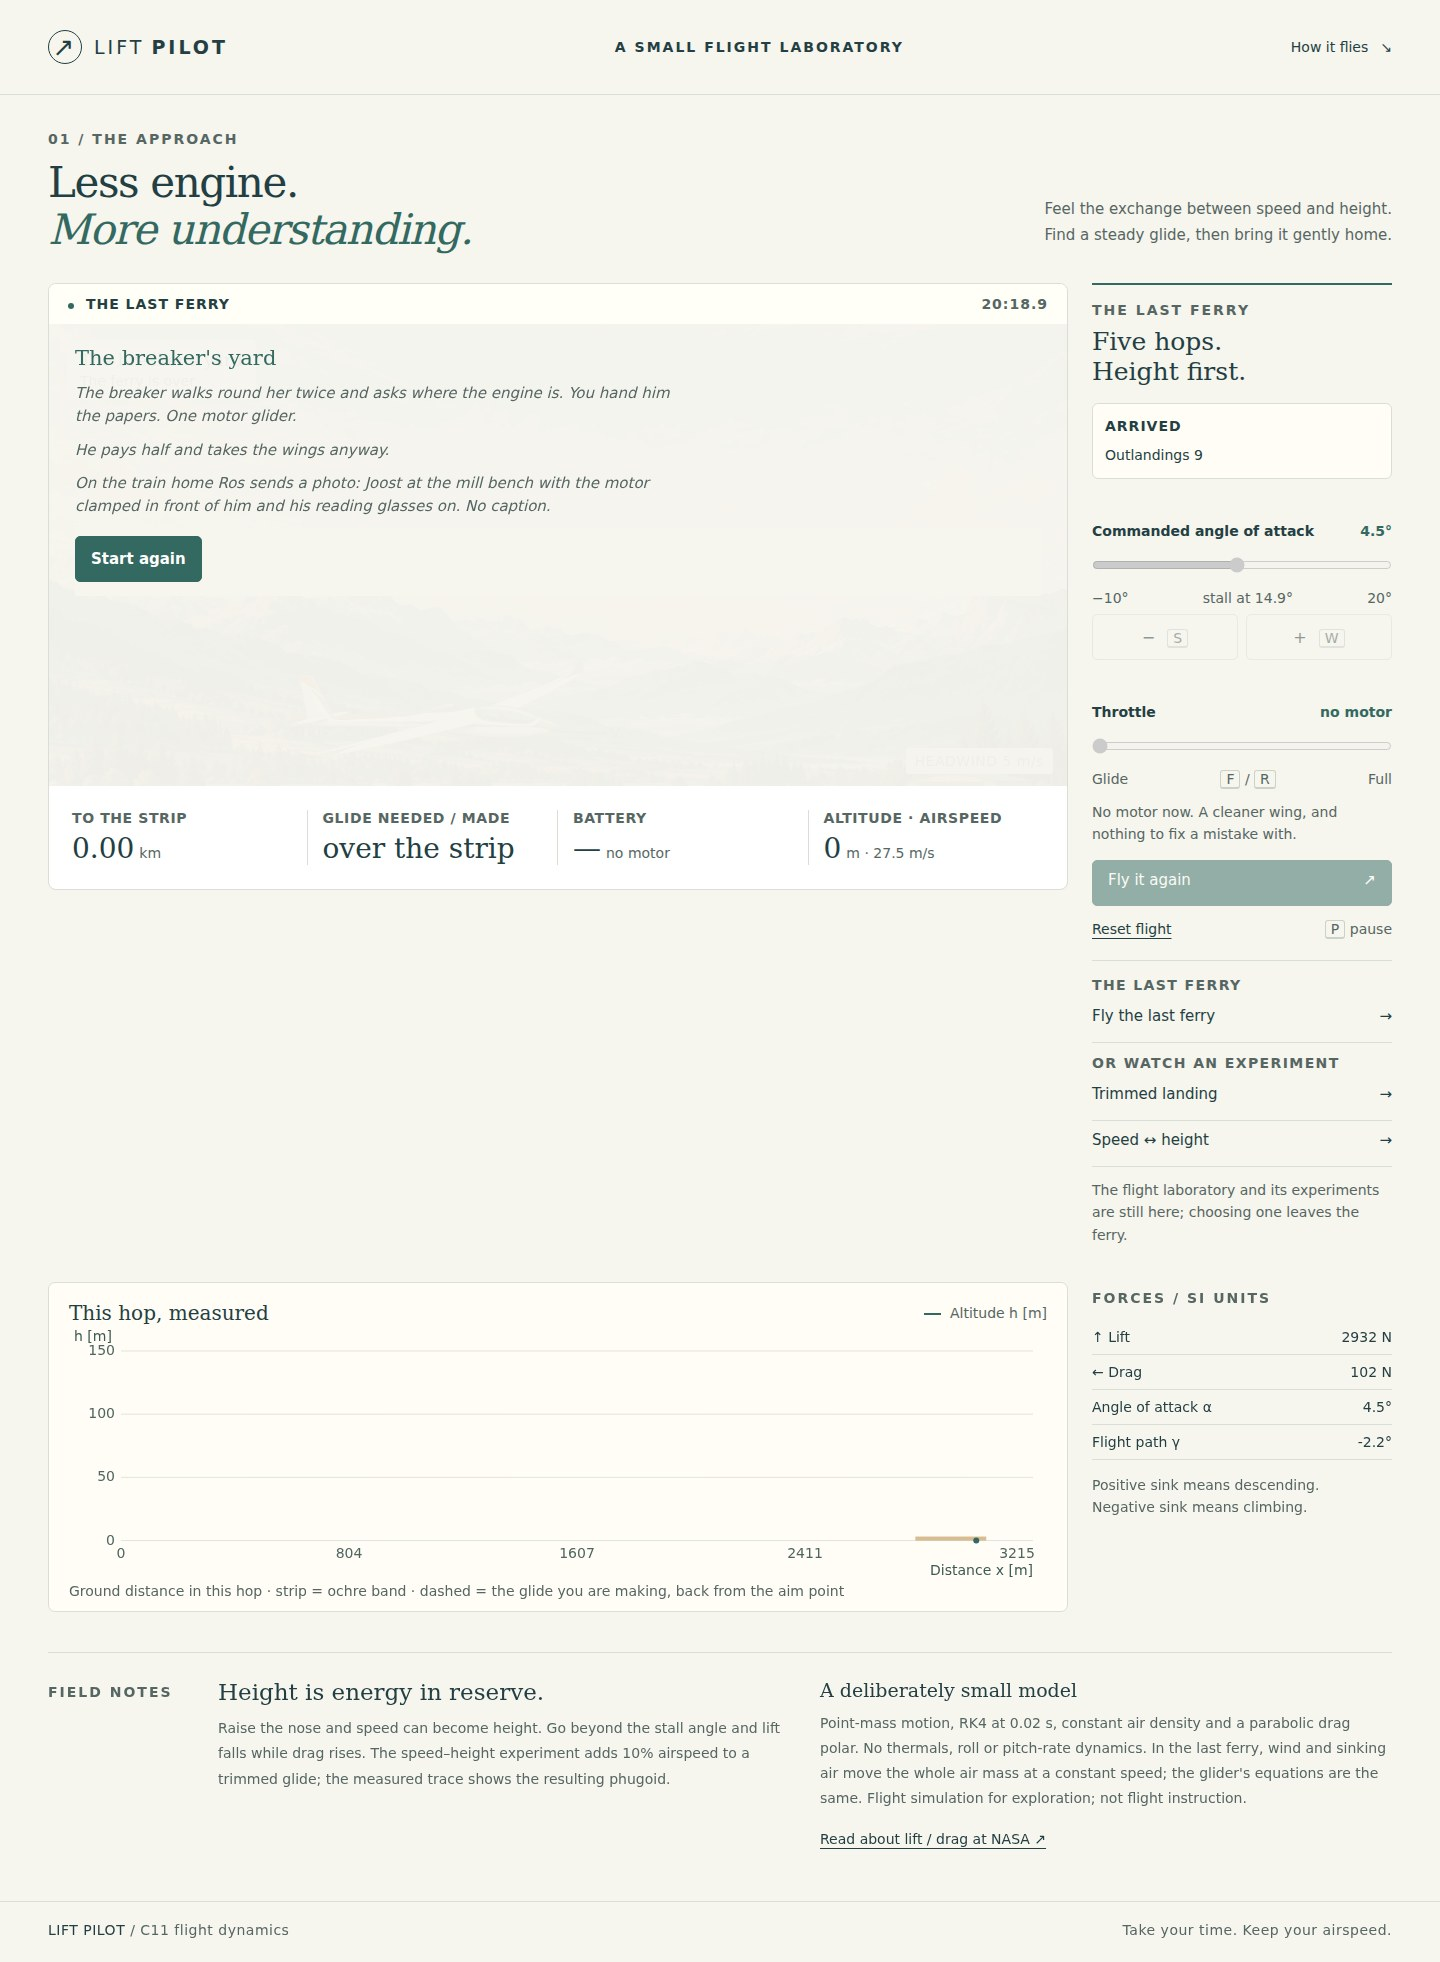
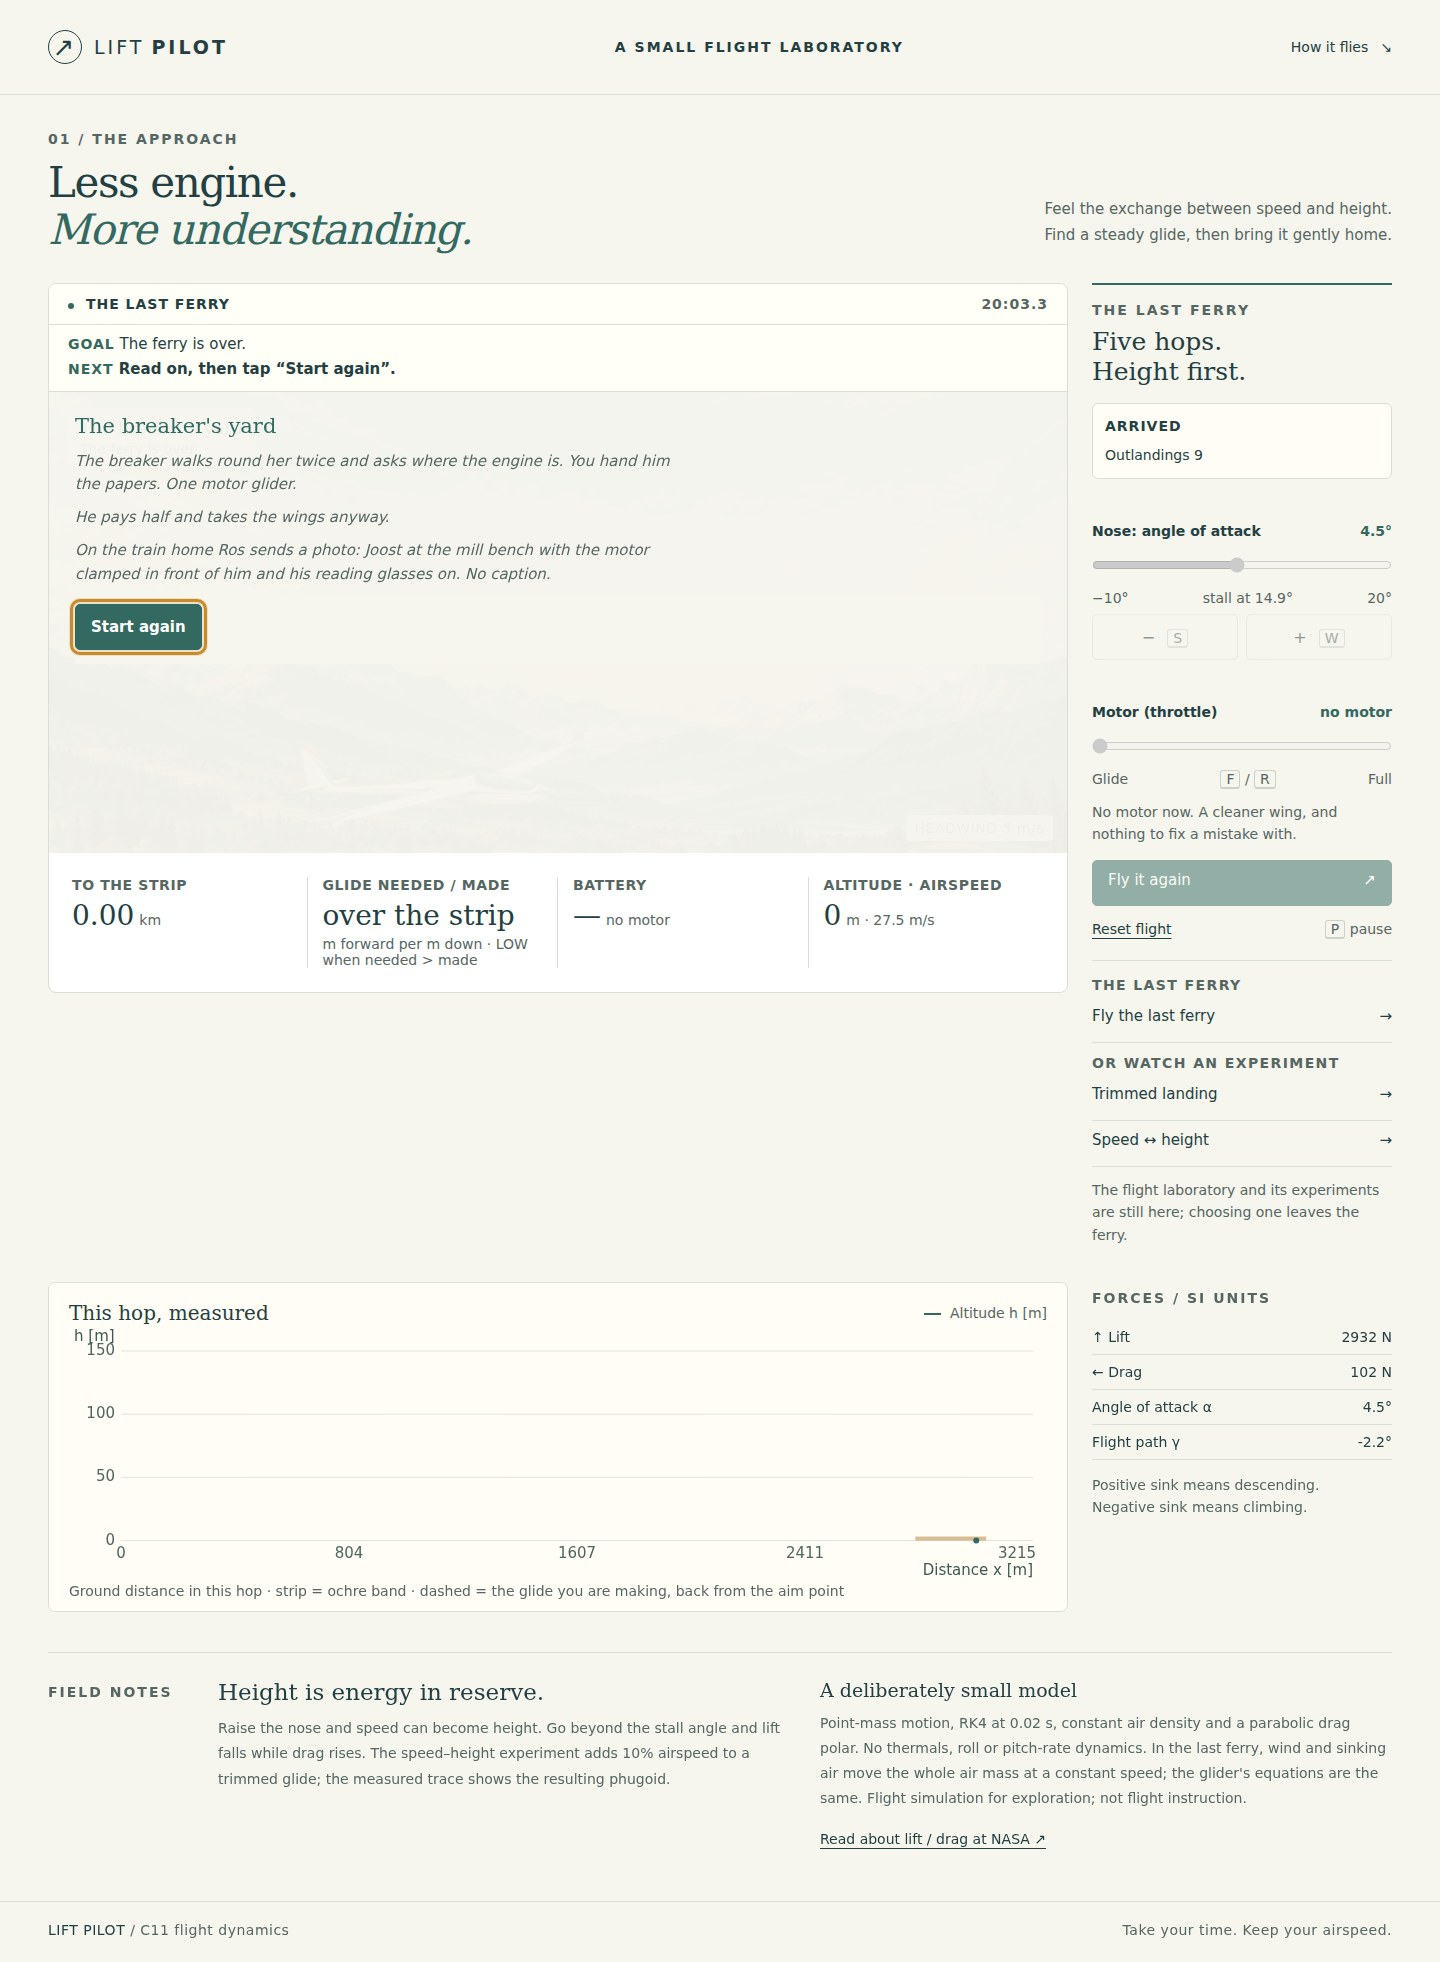
Show the goal and the next step above the flight view (#10)
GOAL and NEXT lines from the C state (stall, flare, LOW with or without
battery, motor still running, nose far from 4 deg, paused, scenes, landings),
pinned at the top when the page scrolls; the named control is outlined.
Quick row (- Nose, + Nose, Motor 0%, Motor 100%) under the view on upright
phones. __tmGate.objective()/hint() return the same words; the tap point
moves to nextTarget(). Instrument words added; LOW/STALL alerts stacked.
Physics, CSV/SVG/GIF and story JSON unchanged.

diff --git a/web/style.css b/web/style.css
@@ -18,18 +18,31 @@ input{accent-color:var(--accent)}
 h1{font:42px/1.12 var(--serif);letter-spacing:-1.4px;margin:0}h1 em{font-weight:400;color:var(--accent)}
 .intro>p{font-size:15px;line-height:1.7;color:var(--muted);margin:0 0 5px}
 .flight-layout{display:grid;grid-template-columns:minmax(0,1fr) 300px;gap:24px;align-items:start}
-.flight-panel{min-width:0;border:1px solid var(--line);border-radius:8px;overflow:hidden;background:#fff}
+.flight-panel{min-width:0;border:1px solid var(--line);border-radius:8px;overflow:clip;background:#fff}
 .view-heading{display:flex;justify-content:space-between;align-items:center;padding:12px 19px;font-size:14px;font-weight:600;letter-spacing:1px;background:#fffef7}
 .live-dot{display:inline-block;width:6px;height:6px;border-radius:50%;background:var(--accent);margin-right:6px}
 #clock{font-variant-numeric:tabular-nums;color:var(--muted)}
+/* The goal of the flight and the next thing to do, always on screen above the view (bug #10). */
+/* Sticky: once the page is scrolled down to the instruments, the two lines stay pinned at the top of the screen. */
+.guide{position:sticky;top:0;z-index:4;padding:9px 19px 10px;background:#fffef7;border-top:1px solid var(--line);border-bottom:1px solid var(--line);font-size:15px;line-height:1.45}
+.guide p{margin:0}.guide p+p{margin-top:3px}
+.guide-key{display:inline-block;min-width:46px;font-size:14px;font-weight:700;letter-spacing:1px;color:var(--accent)}
+#next-step{font-weight:600}
+.guide[data-tone=warn] #next-step{color:#8a4b12}.guide[data-tone=warn] .guide-key{color:#8a4b12}
+/* The control the next step names. */
+.next-target{outline:3px solid #c98a2e;outline-offset:2px;box-shadow:0 0 0 6px #c98a2e33}
+.quick{display:none}
+.telemetry small.note{display:block;margin:4px 0 0}
 .scene{position:relative;background:#c4d9dd}
 .scene canvas{display:block;width:100%;aspect-ratio:1080/470}
 .scene-label{position:absolute;left:18px;top:16px;max-width:70%;background:#fcfcf0e8;border:1px solid #fff8;border-radius:5px;padding:9px 12px;box-shadow:0 2px 10px #294c4120}
 .scene-label span{display:block;font:17px var(--serif)}
 .scene-label small{display:block;font-size:14px;color:#4c5e5a;margin-top:3px}
 .view-corner{position:absolute;right:14px;bottom:12px;font-size:14px;letter-spacing:.5px;background:#faf9efe8;padding:5px 9px;border-radius:3px}
-#stall,#low{position:absolute;bottom:12px;left:14px;padding:9px 13px;background:#783725;color:white;font-size:14px;border-radius:4px;max-width:70%}
-#low{background:#8a4b12;bottom:58px}
+/* LOW above STALL, stacked so the two never cover each other. */
+.alerts{position:absolute;bottom:12px;left:14px;max-width:70%;display:flex;flex-direction:column;align-items:flex-start;gap:6px}
+#stall,#low{padding:9px 13px;background:#783725;color:white;font-size:14px;border-radius:4px}
+#low{background:#8a4b12}
 #banner{position:absolute;left:50%;top:76px;transform:translateX(-50%);font-size:14px;letter-spacing:1.4px;font-weight:600;padding:8px 14px;border-radius:4px;background:#336960;color:#fff;white-space:nowrap}
 #banner[data-kind=out]{background:#7b4a26}
 .telemetry{display:grid;grid-template-columns:repeat(4,1fr);padding:20px 8px}
@@ -124,10 +137,13 @@ body[data-mode=ferry] .ferry-brief{display:block}
   .flight-layout,.analysis-grid{grid-template-columns:1fr;gap:16px}
   .view-heading{padding:8px 12px}
   .scene canvas{aspect-ratio:auto;height:62svh;min-height:300px}
+  .guide{padding:8px 12px;font-size:14px;min-height:calc(4 * 1.45em + 17px)}
+  .quick{display:grid;grid-template-columns:repeat(4,1fr);gap:6px;padding:8px 8px 0}
+  .quick button{padding:6px 4px;font-size:14px;background:#fffef7}
   .scene-label{max-width:88%;left:8px;top:8px;padding:7px 10px}.scene-label span{font-size:16px}
   .view-corner{display:none}
-  #banner{top:auto;bottom:12px;white-space:normal;max-width:90%;text-align:center}
-  #low{bottom:56px}
+  #banner{top:72px;white-space:normal;max-width:90%;text-align:center}
+  .alerts{left:8px;bottom:8px;max-width:88%}
   .telemetry{grid-template-columns:repeat(2,1fr);gap:12px 0;padding:14px 4px}
   .telemetry>div:nth-child(2){border:0}.telemetry strong{font-size:24px}
   #welcome,#story{padding:16px}
@@ -140,9 +156,11 @@ body[data-mode=ferry] .ferry-brief{display:block}
 @media(max-height:520px) and (orientation:landscape){
   .topbar{display:none}.intro{display:none}
   .topbar,main,footer{padding-left:8px;padding-right:8px}
-  .flight-layout{grid-template-columns:minmax(0,1fr) 250px;gap:10px;align-items:start}
+  .flight-layout{grid-template-columns:minmax(0,1fr) 232px;gap:10px;align-items:start}
   .view-heading{display:none}
-  .scene canvas{aspect-ratio:auto;height:calc(100svh - 8px)}
+  main{padding-top:0}
+  .scene canvas{aspect-ratio:auto;height:calc(100svh - 8px - var(--guide-h,0px))}
+  .guide{padding:5px 10px;font-size:14px;line-height:1.35}.guide p+p{margin-top:1px}.quick{display:none}
   .flight-panel{position:sticky;top:4px}
   .scene-label{left:8px;top:8px;padding:6px 9px}.scene-label span{font-size:15px}
   .view-corner{display:none}

diff --git a/web/index.html b/web/index.html
@@ -20,11 +20,15 @@
   <div class="flight-layout">
     <section class="flight-panel" aria-label="Flight observation">
       <div class="view-heading"><span><i class="live-dot" aria-hidden="true"></i> <span id="mode-name">MANUAL APPROACH</span></span><span id="clock">00:00.0</span></div>
+      <div class="guide" id="guide">
+        <p><span class="guide-key">GOAL</span> <span id="goal-line">Loading the flight model…</span></p>
+        <p><span class="guide-key">NEXT</span> <span id="next-step" aria-live="polite">Wait a moment.</span></p>
+      </div>
       <div class="scene">
         <canvas id="scene" width="1080" height="470" role="img" aria-label="Illustrated flight view. Altitude and distance are on the measured plot below."></canvas>
         <div class="scene-label"><span id="status" role="status">Loading the flight model…</span><small id="scene-caption">Illustrated landscape · schematic ground line</small></div>
-        <div id="stall" hidden>STALL — reduce angle of attack</div>
-        <div id="low" hidden>LOW — you won't make the strip at this glide</div>
+        <div class="alerts"><div id="low" hidden>LOW — you won't make the strip at this glide</div>
+          <div id="stall" hidden>STALL — reduce angle of attack</div></div>
         <div id="banner" hidden></div>
         <div class="view-corner" id="view-corner">STILL AIR · LONGITUDINAL FLIGHT</div>
         <div id="welcome" hidden>
@@ -40,15 +44,19 @@
           <div id="story-options"></div>
         </div>
       </div>
+      <div class="quick" aria-label="Quick controls">
+        <button data-adjust="-1" aria-label="Nose down">− Nose</button><button data-adjust="1" aria-label="Nose up">+ Nose</button>
+        <button data-motor="0" aria-label="Motor off">Motor 0%</button><button data-motor="1" aria-label="Motor full">Motor 100%</button>
+      </div>
       <div class="telemetry" id="lab-telemetry" aria-label="Flight instruments">
         <div><span>AIRSPEED</span><strong id="airspeed">—</strong><small>m/s</small></div>
         <div><span>ALTITUDE</span><strong id="altitude">—</strong><small>m</small></div>
-        <div><span>SINK RATE ↓</span><strong id="sink">—</strong><small>m/s</small></div>
-        <div><span>LIFT / DRAG</span><strong id="ld">—</strong><small>ratio</small></div>
+        <div><span>SINK RATE ↓</span><strong id="sink">—</strong><small>m/s</small><small class="note">under 2 m/s to land</small></div>
+        <div><span>LIFT / DRAG</span><strong id="ld">—</strong><small>ratio</small><small class="note">m forward per m down</small></div>
       </div>
       <div class="telemetry ferry-only" id="ferry-telemetry" aria-label="Ferry instruments">
         <div><span>TO THE STRIP</span><strong id="f-strip">—</strong><small>km</small></div>
-        <div id="glide-cell"><span>GLIDE NEEDED / MADE</span><strong id="f-glide">—</strong></div>
+        <div id="glide-cell"><span>GLIDE NEEDED / MADE</span><strong id="f-glide">—</strong><small class="note">m forward per m down · LOW when needed &gt; made</small></div>
         <div><span>BATTERY</span><strong id="f-charge">—</strong><small id="f-charge-unit">s of motor</small></div>
         <div><span>ALTITUDE · AIRSPEED</span><strong id="f-height">—</strong><small id="f-speed">—</small></div>
       </div>
@@ -56,11 +64,11 @@
     <aside class="control-panel" aria-label="Flight controls">
       <p class="eyebrow" id="controls-eyebrow">YOUR CONTROLS</p><h2 id="controls-title">Small inputs.<br>Watch what follows.</h2>
       <div class="ferry-only ferry-brief"><p id="hop-name">HOP 1 / 5</p><p id="hop-air"></p><p id="hop-tally"></p></div>
-      <label for="pitch">Commanded angle of attack <output id="pitch-value" for="pitch">4.0°</output></label>
+      <label for="pitch">Nose: angle of attack <output id="pitch-value" for="pitch">4.0°</output></label>
       <input id="pitch" type="range" min="-10" max="20" step="0.5" value="4">
       <div class="range-ends"><span>−10°</span><span>stall at 14.9°</span><span>20°</span></div>
       <div class="adjust"><button data-adjust="-1" aria-label="Decrease angle of attack">− <kbd>S</kbd></button><button data-adjust="1" aria-label="Increase angle of attack">+ <kbd>W</kbd></button></div>
-      <label for="throttle" id="throttle-label">Throttle <output id="throttle-value" for="throttle">0%</output></label>
+      <label for="throttle" id="throttle-label">Motor (throttle) <output id="throttle-value" for="throttle">0%</output></label>
       <input id="throttle" type="range" min="0" max="100" step="5" value="0">
       <div class="range-ends"><span>Glide</span><span><kbd>F</kbd> / <kbd>R</kbd></span><span>Full</span></div>
       <p class="control-note" id="control-note">Pitch commands the angle of attack, not the flight path. Give the aircraft time to respond.</p>

diff --git a/docs/design.md b/docs/design.md
@@ -56,6 +56,17 @@ touched. With no story numbers the strips are 600 m long, in still air, at 2,500
 darken the flight view; no "strip made" banner is raised for the hop that leads to them, nor in the
 frame after they close (`[quiet]` in `tests/test_ferry.c`, `quiet` in every play-order seed).
 
+## The goal and the next step
+
+`guide()` in `web/app.mjs` turns the C state into two lines above the view: the goal (where to land,
+how far, the strip length; in the laboratory the runway and the 2 m/s limit) and the next step. The
+next step is the first that applies of: paused, stall (nose down), past the strip end, near the
+strip and low with sink over 1.8 m/s (flare: nose up), on final with the motor running (motor off),
+on final, LOW with battery (Motor 100%), climbing on the motor, LOW without a motor, the motor
+running with height in hand (motor off), the nose above 9° or below 1° (back toward 4°), gliding
+well. The control it names gets `.next-target`: the phone's quick row when it is on screen, else the
+control panel. Only words come from JavaScript; every number is read from C.
+
 ## Screen states (`window.__tmGate.scene()`)
 
 `loading` → `title` (welcome card) → `scene:<id>` ↔ `play` / `paused` → `scene:coast` → `done`.
@@ -65,17 +76,18 @@ The laboratory uses `play` / `paused` / `done` without scenes.
 
 | Action | Keyboard | Pointer / touch |
 |---|---|---|
-| Angle of attack | W / S (±1°) | slider, − / + buttons |
-| Throttle | R / F (±5 %) | slider (disabled with no motor or a flat battery) |
+| Angle of attack | W / S (±1°) | slider, − / + buttons, the quick row's − Nose / + Nose (upright phones) |
+| Throttle | R / F (±5 %) | slider, the quick row's Motor 0% / Motor 100% (disabled with no motor or a flat battery) |
 | Pause / resume | P | the main button |
 | Scene answers | — | buttons in the scene panel |
 
 ## Test hook
 
 `window.__tmGate`: `version`, `logical` (the scene canvas's CSS size), `scene()`, `goal()` (the
-hangar answered and the Kestrel airborne), `objective()`, `texts()` and `targets()` empty (all words
-and targets are DOM or canvas text the gate measures directly), `player()` null, `hint()` (the
-welcome button, the open scene's first answer, or Resume). `window.liftView.snapshot` exposes the C
+hangar answered and the Kestrel airborne), `objective()` and `hint()` (the words of `#goal-line` and
+`#next-step`), `texts()` and `targets()` empty (all words and targets are DOM or canvas text the gate
+measures directly), `player()` null, `nextTarget()` (the centre of the outlined control the next step
+names: the welcome button, the open scene's first answer, Resume, nose up/down or the motor). `window.liftView.snapshot` exposes the C
 state, the open scene, banner and heavy-scene log for the smoke test.
 
 ## Known limits

diff --git a/docs/requirements.md b/docs/requirements.md
@@ -20,8 +20,15 @@ Written from the code, the tests and the bench output. Numbers come from `src/`,
 |---|---|---|
 | PC | Keyboard | W/S angle of attack, R/F throttle, P pause (laboratory and ferry) |
 | PC / phone | Pointer / touch | Sliders and the − / + buttons set the angle of attack and throttle; every scene answer, start, pause and reset is a button |
-| Phone, upright | Touch only | The flight view comes first and fills about 62 % of the screen height; controls and instruments follow |
+| Phone, upright | Touch only | The goal and the next step, then the flight view (about 62 % of the screen height), then a quick row (− Nose, + Nose, Motor 0%, Motor 100%) on screen; the full controls and instruments follow |
 | Phone, sideways | Touch only | The flight view on the left at the screen height, controls and the ferry brief on the right |
+
+Above the flight view, on every device, two lines say the goal (`GOAL`: where to land, how far,
+the strip length) and the next step (`NEXT`): what to do now and with which control, chosen from
+the C state (stall, near the ground and sinking, LOW with or without battery, the motor still
+running, the nose far from 4°, paused, a scene to answer, a hard landing). The control it names
+is outlined. The instruments carry words as well as units (`under 2 m/s to land`,
+`m forward per m down`, `LOW when needed > made`).
 
 Everything can be started and finished without a keyboard. There is no persistence, sound
 or server API. The browser downloads only local files.
@@ -52,6 +59,17 @@ or server API. The browser downloads only local files.
 | ⑤ Targets | every target 44×44 CSS px or larger (buttons, links, sliders, labels) |
 | ⑥ Orientation | no sideways overflow; the flight view covers half the screen or more |
 | ⑦ Direction | not applicable: the flight is longitudinal, there is no screen direction to steer |
+
+### The goal and the next step (bug #10, `make smoke` → `guide`)
+
+| Condition | Measured on |
+|---|---|
+| `GOAL` and `NEXT` are shown and equal `__tmGate.objective()` / `hint()` | welcome, scene, gliding, LOW, stall × 375×812, 812×375, 667×375, 1440×1000 |
+| 14 CSS px or larger, inside the screen, over none of the view, instruments, quick row, alerts or control panel | the same 20 states |
+| the quick row (4 buttons, 44 CSS px or larger) is on screen without scrolling | 375×812 |
+| LOW asks for Motor 100%, a stall for nose down, the laboratory's start and hard landing say what to do | each orientation and the laboratory |
+
+A first-time reader's understanding is judged by these, not by the local VLM playtest (a reference value).
 
 ## Not verified
 

diff --git a/README.md b/README.md
@@ -24,12 +24,16 @@ battery. Start it with **Fly the last ferry** on the welcome card or in the cont
 - Story scenes open at the end of each hop and change only game numbers: the battery, where the
   strip is and how long, the air (a uniform headwind or sinking air carries the whole air mass),
   and, if you let Joost take the motor out at Mill Strip, the aircraft itself. Two choices, two endings.
+- Above the view, `GOAL` says where to land and how far, and `NEXT` says what to do now and with which
+  control (LOW: Motor 100%; stalling: nose down; low and sinking: flare). The control is outlined; on an
+  upright phone a quick row (− Nose, + Nose, Motor 0%, Motor 100%) sits under the view.
 - `make story` flies 524 runs with a human-like pilot and writes `docs/narrative/`;
   `make test` checks every story number and re-runs bench rows byte for byte.
 
 ![Mid-hop, the glide needed against the glide made](docs/images/ferry-flight.jpg)
 ![Mill Strip, a heavy scene on a still, dark panel](docs/images/ferry-mill.jpg)
 ![Phone, upright, touch only](docs/images/mobile-ferry.jpg)
+![Phone, upright: the goal, the next step and the quick row during a stall](docs/images/mobile-guide.jpg)
 
 ## Browser
 
